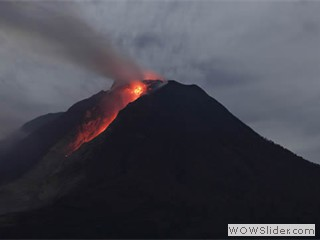
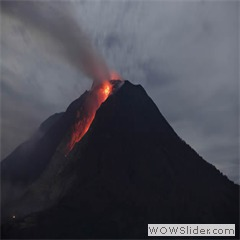
3subida

diff --git a/visor/engine1/style.css b/visor/engine1/style.css
@@ -1,18 +1,18 @@
 /*
  *	generated by WOW Slider 4.8
- *	template Gothic
+ *	template Fresh
  */
-@import url("http://fonts.googleapis.com/css?family=Didact+Gothic&subset=latin,latin-ext,cyrillic");
+@import url(http://fonts.googleapis.com/css?family=Open+Sans&subset=latin,cyrillic,latin-ext);
 #wowslider-container1 { 
 	zoom: 1; 
 	position: relative; 
-	max-width:320px;
+	max-width:240px;
 	margin:0px auto 0px;
 	z-index:90;
 	border:none;
 	text-align:left; /* reset align=center */
 }
-* html #wowslider-container1{ width:320px }
+* html #wowslider-container1{ width:240px }
 #wowslider-container1 .ws_images ul{
 	position:relative;
 	width: 10000%; 
@@ -82,29 +82,29 @@
 
 
 #wowslider-container1  .ws_bullets { 
-	padding: 5px; 
+	padding: 9px; 
 }
 #wowslider-container1 .ws_bullets a { 
-	width:16px;
-	height:16px;
+	width:10px;
+	height:10px;
 	background: url(./bullet.png) left top;
 	float: left; 
 	text-indent: -4000px; 
 	position:relative;
-	margin-left:7px;
+	margin-left:5px;
 	color:transparent;
 }
-#wowslider-container1 .ws_bullets a.ws_selbull, #wowslider-container1 .ws_bullets a:hover{
+#wowslider-container1 .ws_bullets a:hover, #wowslider-container1 .ws_bullets a.ws_selbull{
 	background-position: 0 100%;
-} 
+}
 #wowslider-container1 a.ws_next, #wowslider-container1 a.ws_prev {
 	position:absolute;
 	display:none;
 	top:50%;
-	margin-top:-20px;
+	margin-top:-13px;
 	z-index:60;
-	height: 40px;
-	width: 40px;
+	height: 27px;
+	width: 27px;
 	background-image: url(./arrows.png);
 }
 #wowslider-container1 a.ws_next{
@@ -115,25 +115,19 @@
 	background-position: 0 0; 
 	left:10px;
 }
-#wowslider-container1 a.ws_next:hover{
-	background-position: 100% 100%;
-}
-#wowslider-container1 a.ws_prev:hover {
-	background-position: 0 100%; 
-}
 * html #wowslider-container1 a.ws_next,* html #wowslider-container1 a.ws_prev{display:block}
 #wowslider-container1:hover a.ws_next, #wowslider-container1:hover a.ws_prev {display:block}
 
 /*playpause*/
 #wowslider-container1 .ws_playpause {
 	display:none;
-    width: 40px;
-    height: 40px;
+    width: 27px;
+    height: 27px;
     position: absolute;
     top: 50%;
     left: 50%;
-    margin-left: -20px;
-    margin-top: -20px;
+    margin-left: -13px;
+    margin-top: -13px;
     z-index: 59;
 }
 
@@ -162,53 +156,50 @@
 #wowslider-container1 .ws-title{
 	position:absolute;
 	display:block;
-	bottom: 25px;
-	left: 10px; 
-	margin-right: 10px;
-	padding:7px;
-	background:#000000;
+	bottom: 15px;
+	left: 10px;
+	margin: 9px;
+	margin-right: 10px; 
+	padding:8px 10px;
+	background:#559674;
 	color:#FFFFFF;
 	z-index: 50;
-	font-family:'Didact Gothic',Arial,Helvetica,sans-serif;
-	font-size: 32px;
-	line-height: 34px;
-	font-weight: normal;
-	border-radius:6px;	
-	-moz-border-radius:6px;
- 	-webkit-border-radius:6px;
-	opacity:0.7;
-	filter:progid:DXImageTransform.Microsoft.Alpha(opacity=70);
+	font-family:'Open Sans',Arial,Helvetica,sans-serif;
+	font-size: 20px;
+	line-height: 22px;
+	font-weight: bold;
 }
 #wowslider-container1 .ws-title div{
-    margin-top: 6px;
-	font-size: 18px;
-	line-height: 20px;
+	padding-top:5px;
+	font-size: 14px;
+	line-height: 16px;
+	font-weight: normal;
 }
-
 #wowslider-container1 .ws_images ul{
-	animation: wsBasic 20s infinite;
-	-moz-animation: wsBasic 20s infinite;
-	-webkit-animation: wsBasic 20s infinite;
+	animation: wsBasic 24s infinite;
+	-moz-animation: wsBasic 24s infinite;
+	-webkit-animation: wsBasic 24s infinite;
 }
-@keyframes wsBasic{0%{left:-0%} 10%{left:-0%} 20%{left:-100%} 30%{left:-100%} 40%{left:-200%} 50%{left:-200%} 60%{left:-300%} 70%{left:-300%} 80%{left:-400%} 90%{left:-400%} }
-@-moz-keyframes wsBasic{0%{left:-0%} 10%{left:-0%} 20%{left:-100%} 30%{left:-100%} 40%{left:-200%} 50%{left:-200%} 60%{left:-300%} 70%{left:-300%} 80%{left:-400%} 90%{left:-400%} }
-@-webkit-keyframes wsBasic{0%{left:-0%} 10%{left:-0%} 20%{left:-100%} 30%{left:-100%} 40%{left:-200%} 50%{left:-200%} 60%{left:-300%} 70%{left:-300%} 80%{left:-400%} 90%{left:-400%} }
+@keyframes wsBasic{0%{left:-0%} 8.33%{left:-0%} 16.67%{left:-100%} 25%{left:-100%} 33.33%{left:-200%} 41.67%{left:-200%} 50%{left:-300%} 58.33%{left:-300%} 66.67%{left:-400%} 75%{left:-400%} 83.33%{left:-500%} 91.67%{left:-500%} }
+@-moz-keyframes wsBasic{0%{left:-0%} 8.33%{left:-0%} 16.67%{left:-100%} 25%{left:-100%} 33.33%{left:-200%} 41.67%{left:-200%} 50%{left:-300%} 58.33%{left:-300%} 66.67%{left:-400%} 75%{left:-400%} 83.33%{left:-500%} 91.67%{left:-500%} }
+@-webkit-keyframes wsBasic{0%{left:-0%} 8.33%{left:-0%} 16.67%{left:-100%} 25%{left:-100%} 33.33%{left:-200%} 41.67%{left:-200%} 50%{left:-300%} 58.33%{left:-300%} 66.67%{left:-400%} 75%{left:-400%} 83.33%{left:-500%} 91.67%{left:-500%} }
 
-#wowslider-container1 {
-    box-shadow: 0 0 2px #000000;	
-    -moz-box-shadow: 0 0 2px #000000;
-    -webkit-box-shadow: 0 0 2px #000000; 
+#wowslider-container1 .ws_images img, #wowslider-container1 .ws_effect img, #wowslider-container1 .ws_effect>* {
+    border-radius: 6px; 
+	-moz-border-radius:6px;
+	-webkit-border-radius:6px;
 }
 #wowslider-container1 .ws_bullets  a img{
 	text-indent:0;
 	display:block;
 	bottom:20px;
-	left:-32px;
+	left:-24px;
 	visibility:hidden;
 	position:absolute;
-    box-shadow:0 0 2px #000000;
-    -moz-box-shadow: 0 0 2px #000000;
-    -webkit-box-shadow: 0 0 2px #000000; 
+    border: 4px solid #FFF;
+	border-radius:6px;
+	-moz-border-radius:6px;
+	-webkit-border-radius:6px;
 	max-width:none;
 }
 #wowslider-container1 .ws_bullets a:hover img{
@@ -224,25 +215,26 @@
 	left:0;
 	overflow:hidden;
 	position:relative;
-	width:64px;
-	background-color:#000000;
+	width:48px;
+	background-color:#FFF;
 }
 #wowslider-container1  .ws_bullets .ws_bulframe{
 	display:none;
-	bottom:20px;
+	bottom:18px;
 	overflow:visible;
 	position:absolute;
 	cursor:pointer;
-    box-shadow:0 0 2px #000000;
-    -moz-box-shadow: 0 0 2px #000000;
-    -webkit-box-shadow: 0 0 2px #000000; 
+    border: 4px solid #FFF;
+	border-radius:6px;
+	-moz-border-radius:6px;
+	-webkit-border-radius:6px;
 }
 #wowslider-container1 .ws_bulframe span{
 	display:block;
 	position:absolute;
-	bottom:-6px;
-	margin-left:0px;
-	left:32px;
+	bottom:-10px;
+	margin-left:-6px;
+	left:24px;
 	background:url(./triangle.png);
 	width:15px;
 	height:6px;

diff --git a/visor/indexvisor.html b/visor/indexvisor.html
@@ -2,10 +2,10 @@
 	"http://www.w3.org/TR/xhtml1/DTD/xhtml1-strict.dtd">
 <html xmlns="http://www.w3.org/1999/xhtml">
 <head>
-	<title>VOLCAN generated by WOWSlider.com</title>
+	<title>WOWSlider generated by WOWSlider.com</title>
 	<meta http-equiv="content-type" content="text/html; charset=utf-8" />
-	<meta name="keywords" content="VOLCAN, WOW Slider, Slideshow HTML Generator, Image Slider for Website" />
-	<meta name="description" content="VOLCAN created with WOW Slider, a free wizard program that helps you easily generate beautiful web slideshow" />
+	<meta name="keywords" content="WOW Slider, Slideshow HTML Generator, Image Slider for Website" />
+	<meta name="description" content="WOWSlider created with WOW Slider, a free wizard program that helps you easily generate beautiful web slideshow" />
 	<!-- Start WOWSlider.com HEAD section -->
 	<link rel="stylesheet" type="text/css" href="engine1/style.css" />
 	<script type="text/javascript" src="engine1/jquery.js"></script>
@@ -15,18 +15,20 @@
 	<!-- Start WOWSlider.com BODY section -->
 	<div id="wowslider-container1">
 	<div class="ws_images"><ul>
-<li><img src="data1/images/actpopo.jpg" alt="actpopo" title="actpopo" id="wows1_0"/></li>
-<li><img src="data1/images/erupcionvolcanica.jpg" alt="erupcion-volcanica" title="erupcion-volcanica" id="wows1_1"/></li>
-<li><img src="data1/images/siliderpopo.jpg" alt="siliderpopo" title="siliderpopo" id="wows1_2"/></li>
-<li><img src="data1/images/volcan.jpg" alt="volcan" title="volcan" id="wows1_3"/></li>
-<li><img src="data1/images/volcanfoto.jpg" alt="volcanfoto" title="volcanfoto" id="wows1_4"/></li>
+<li><img src="data1/images/20160328_13_04_popocatepetl_ntmex.jpg" alt="20160328_13_04_Popocatepetl_Ntmex" title="20160328_13_04_Popocatepetl_Ntmex" id="wows1_0"/></li>
+<li><img src="data1/images/actividadpopo.jpg" alt="actividadpopo" title="actividadpopo" id="wows1_1"/></li>
+<li><img src="data1/images/actpopo.jpg" alt="actpopo" title="actpopo" id="wows1_2"/></li>
+<li><img src="data1/images/erupcionvolcanica.jpg" alt="erupcion-volcanica" title="erupcion-volcanica" id="wows1_3"/></li>
+<li><img src="data1/images/siliderpopo.jpg" alt="siliderpopo" title="siliderpopo" id="wows1_4"/></li>
+<li><img src="data1/images/volcanesciencia.jpg" alt="volcanes-ciencia" title="volcanes-ciencia" id="wows1_5"/></li>
 </ul></div>
 <div class="ws_bullets"><div>
-<a href="#" title="actpopo"><img src="data1/tooltips/actpopo.jpg" alt="actpopo"/>1</a>
-<a href="#" title="erupcion-volcanica"><img src="data1/tooltips/erupcionvolcanica.jpg" alt="erupcion-volcanica"/>2</a>
-<a href="#" title="siliderpopo"><img src="data1/tooltips/siliderpopo.jpg" alt="siliderpopo"/>3</a>
-<a href="#" title="volcan"><img src="data1/tooltips/volcan.jpg" alt="volcan"/>4</a>
-<a href="#" title="volcanfoto"><img src="data1/tooltips/volcanfoto.jpg" alt="volcanfoto"/>5</a>
+<a href="#" title="20160328_13_04_Popocatepetl_Ntmex"><img src="data1/tooltips/20160328_13_04_popocatepetl_ntmex.jpg" alt="20160328_13_04_Popocatepetl_Ntmex"/>1</a>
+<a href="#" title="actividadpopo"><img src="data1/tooltips/actividadpopo.jpg" alt="actividadpopo"/>2</a>
+<a href="#" title="actpopo"><img src="data1/tooltips/actpopo.jpg" alt="actpopo"/>3</a>
+<a href="#" title="erupcion-volcanica"><img src="data1/tooltips/erupcionvolcanica.jpg" alt="erupcion-volcanica"/>4</a>
+<a href="#" title="siliderpopo"><img src="data1/tooltips/siliderpopo.jpg" alt="siliderpopo"/>5</a>
+<a href="#" title="volcanes-ciencia"><img src="data1/tooltips/volcanesciencia.jpg" alt="volcanes-ciencia"/>6</a>
 </div></div>
 <span class="wsl"><a href="http://wowslider.com">Php Slide Show</a> by WOWSlider.com v4.8</span>
 	<div class="ws_shadow"></div>

diff --git a/visor/engine1/script.js b/visor/engine1/script.js
@@ -8,7 +8,7 @@
 // Obfuscated by Javascript Obfuscator
 // http://javascript-source.com
 //***********************************************
-function ws_basic_linear(c,a,b){var d=jQuery;var e=d("<div></div>").css({position:"absolute",display:"none","z-index":2,width:"200%",height:"100%"}).appendTo(b);this.go=function(f,j){e.stop(1,1);var g=(!!((f-j+1)%a.length)^c.revers?"left":"right");d(a[j]).clone().css({position:"absolute",left:"auto",right:"auto",top:0,width:"50%"}).appendTo(e).css(g,0);d(a[f]).clone().css({position:"absolute",left:"auto",right:"auto",top:0,width:"50%"}).appendTo(e).css(g,"50%").show();e.css({left:"auto",right:"auto",top:0}).css(g,0).show();var h=b.find("ul").hide();var i={};i[g]="-100%";e.animate(i,c.duration,"easeInOutExpo",function(){h.css({left:-f+"00%"}).show();d(this).hide().html("")});return f}};// -----------------------------------------------------------------------------------
+function ws_blinds(c,b,a){var g=jQuery;var e=c.parts||3;var f=g("<div>");f.css({position:"absolute",width:"100%",height:"100%",left:0,top:0,"z-index":8}).hide().appendTo(a);var h=[];for(var d=0;d<e;d++){h[d]=g("<div>").css({position:"absolute",height:"100%",width:Math.ceil(100/e)+1+"%",border:"none",margin:0,overflow:"hidden",top:0,left:Math.round(100*d/e)+"%"}).appendTo(f)}this.go=function(m,p,j){var l=p>m?1:0;if(j){if(j<=-1){m=(p+1)%b.length;l=0}else{if(j>=1){m=(p-1+b.length)%b.length;l=1}else{return -1}}}f.find("img").stop(true,true);f.show();var o=g("ul",a);if(c.fadeOut){o.fadeOut((1-1/e)*c.duration)}for(var n=0;n<h.length;n++){var k=h[n];g(b.get(m)).clone().css({position:"absolute",top:0,left:(!l?(-f.width()):(f.width()-k.position().left))+"px",width:"auto",height:"100%"}).appendTo(k).animate({left:-k.position().left+"px"},(c.duration/(h.length+1))*(l?(h.length-n+1):(n+2)),((!l&&n==h.length-1||l&&!n)?function(){o.css({left:-m+"00%"}).stop(true,true).show();f.hide().find("img").remove()}:null))}return m}};// -----------------------------------------------------------------------------------
 // http://wowslider.com/
 // JavaScript Wow Slider is a free software that helps you easily generate delicious 
 // slideshows with gorgeous transition effects, in a few clicks without writing a single line of code.
@@ -18,4 +18,4 @@ function ws_basic_linear(c,a,b){var d=jQuery;var e=d("<div></div>").css({positio
 // Obfuscated by Javascript Obfuscator
 // http://javascript-source.com
 //***********************************************
-jQuery("#wowslider-container1").wowSlider({effect:"basic_linear",prev:"",next:"",duration:20*100,delay:20*100,width:320,height:240,autoPlay:true,playPause:true,stopOnHover:false,loop:false,bullets:true,caption:true,captionEffect:"slide",controls:true,onBeforeStep:0,images:0});
+jQuery("#wowslider-container1").wowSlider({effect:"blinds",prev:"",next:"",duration:20*100,delay:20*100,width:240,height:240,autoPlay:true,playPause:true,stopOnHover:false,loop:false,bullets:true,caption:true,captionEffect:"slide",controls:true,onBeforeStep:0,images:0});

diff --git a/index.html b/index.html
@@ -53,8 +53,9 @@ function MM_swapImage() { //v3.0
           <div><p>Este es el volcan.</p></div>
          
           <div><!-- Start WOWSlider.com -->
-<iframe src="visor/indexvisor.html" style="width:320px;height:240px;max-width:100%;overflow:hidden;border:none;padding:0;margin:0 auto;display:block;" marginheight="0" marginwidth="0"></iframe>
+<iframe src="visor/indexvisor.html" style="width:240px;height:240px;max-width:100%;overflow:hidden;border:none;padding:0;margin:0 auto;display:block;" marginheight="0" marginwidth="0"></iframe>
 <!-- End WOWSlider.com -->
+
 
           </div>
          

diff --git a/visor/iframe_indexvisor.html b/visor/iframe_indexvisor.html
@@ -1,3 +1,3 @@
 <!-- Start WOWSlider.com -->
-<iframe src="indexvisor.html" style="width:320px;height:240px;max-width:100%;overflow:hidden;border:none;padding:0;margin:0 auto;display:block;" marginheight="0" marginwidth="0"></iframe>
+<iframe src="indexvisor.html" style="width:240px;height:240px;max-width:100%;overflow:hidden;border:none;padding:0;margin:0 auto;display:block;" marginheight="0" marginwidth="0"></iframe>
 <!-- End WOWSlider.com -->
